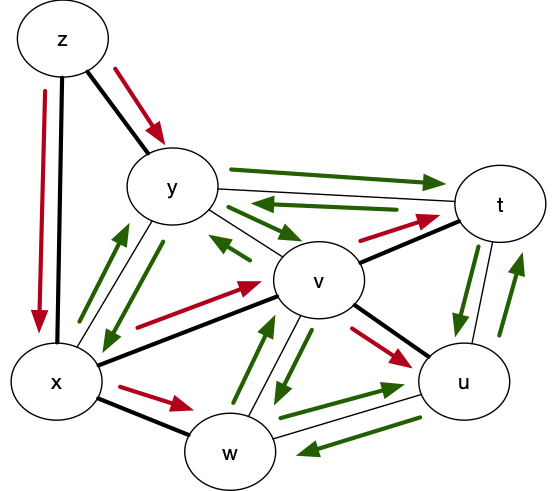
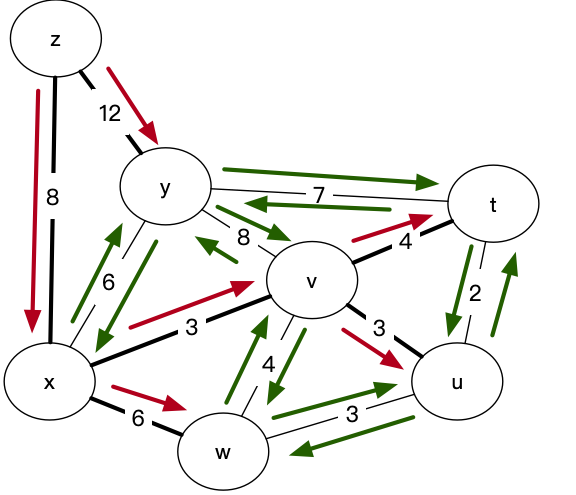
48

diff --git a/04 网络层/习题_40_55.md b/04 网络层/习题_40_55.md
@@ -81,7 +81,12 @@
 
 #### P48 使用习题 P26 中的图重复习题 P47。假定 z 是广播源，并且链路费用如在习题 P26 中所示。
 
-// 理解错误，重新做一遍
+![](https://github.com/YangXiaoHei/Networking/blob/master/04%20网络层/images/p48.1.png)
+
+  * z 首先向 x 和 y 发送源为 z 的报文
+  * x 收到报文后，因为 z 位于 x 返回 z 的最少费用路径上，于是 x 向 y v w 转发分组；y 收到报文后，因为 z 位于 y 返回 z 的最少费用路径上，因此 y 向 x v t 转发分组
+  * 🍎v 收到来自 y 的分组后，因为 y 不位于 v 返回到 z 的最少费用路径上（这条路径应该是 v - x - z），因此 v 丢弃来自 y 的分组；🍎v 收到来自 x 的分组后，因为 x 位于 v 返回到 z 的最少费用路径上，于是 v 向 y t w u 转发分组；🍎w 收到来自 x 的分组后，因为 x 位于 w 返回到 z 的最少费用路径上，因此 w 向 v 和 u 转发分组；🍎t 收到来自 y 的分组后，因为 y 不位于 t 返回到 z 的最少费用路径上，因此 t 丢弃来自 y 的分组；🍎x 收到来自 y 的分组后，因为 y 不位于 x 返回 z 的最少费用路径上，因此 x 丢弃来自 y 的分组；🍎y 收到来自 x 的分组后，因为 x 不位于 y 返回到 z 的最少费用路径上，因此 y 丢弃来自 x 的分组。
+  * 🍎t 收到来自 y 的分组后，因为 y 不位于 t 返回到 z 的最少费用路径上，于是 t 丢弃来自 y 的分组；🍎而收到 v 的分组后，转发该分组；🍎w 收到来自 v 的分组后，因为 v 不位于 w 返回到 z 的最少费用路径上，因此 w 丢弃来自 v 的分组....
 
 #### P49 考虑在图 4-46 中所显示的拓扑，并假定每段链路有单位费用。假设结点 C 在基于中心的多播路由选择算法中被选为中心。假定每个相连路由器都使用到结点 C 的最低费用路径向 C 发送加入报文，画出所产生的基于中心的多播路由选择树。产生的树是一棵最低费用树吗？评估你的答案。
 
